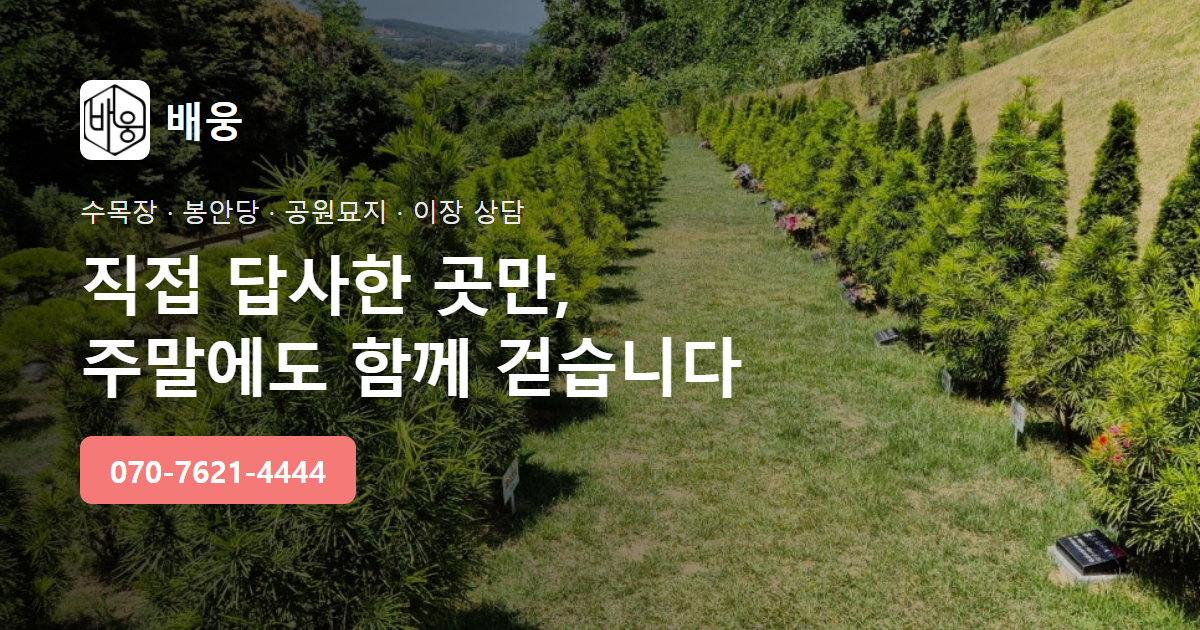
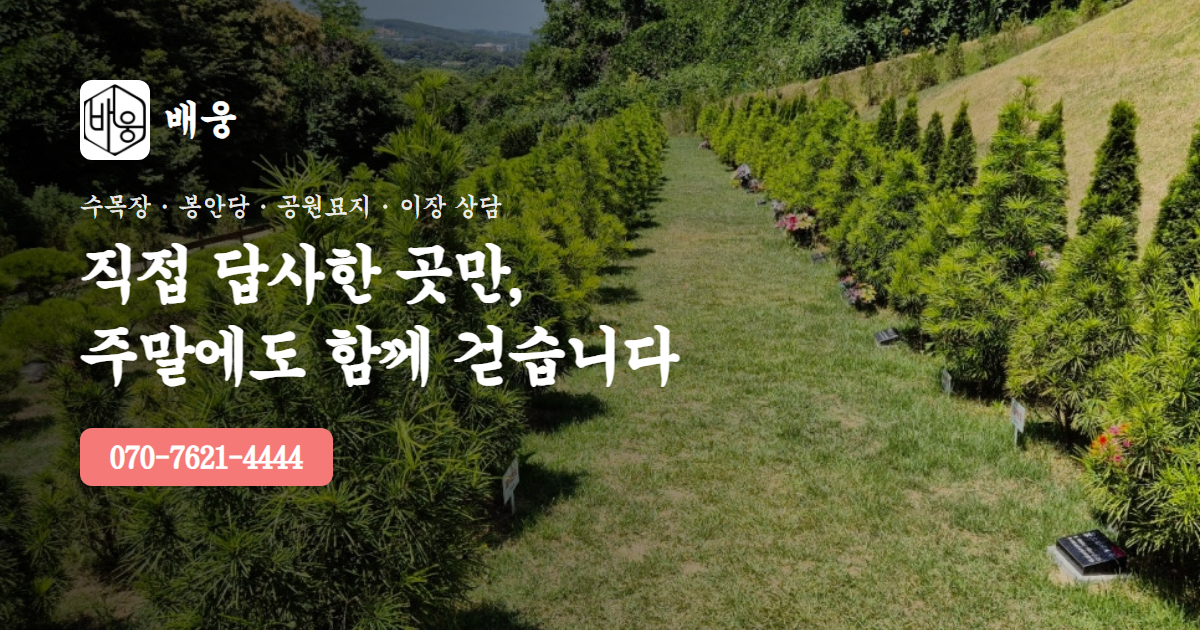
글꼴을 궁서체(조선궁서체 웹폰트)로 변경

diff --git a/css/style.css b/css/style.css
@@ -1,3 +1,5 @@
+/* 글꼴: 조선궁서체(무료 웹폰트). 없으면 윈도우 궁서체 */
+@font-face { font-family: "ChosunGs"; src: url("https://cdn.jsdelivr.net/gh/projectnoonnu/noonfonts_20-04@1.0/ChosunGs.woff") format("woff"); font-weight: normal; font-style: normal; font-display: swap; }
 /* 배웅 홈페이지 — 흰 바탕 + 연회색 섹션 + 코랄 포인트, 모바일 우선 */
 :root {
   --ink: #111;
@@ -17,8 +19,8 @@
 html { -webkit-text-size-adjust: 100%; scroll-behavior: smooth; }
 body {
   margin: 0; background: #fff; color: var(--ink);
-  font-family: Pretendard, -apple-system, BlinkMacSystemFont, "Apple SD Gothic Neo", "Malgun Gothic", sans-serif;
-  font-size: 16px; line-height: 1.6; word-break: keep-all; letter-spacing: -.2px;
+  font-family: "ChosunGs", "Gungsuh", "궁서", "GungSeo", "궁서체", serif;
+  font-size: 16px; line-height: 1.6; word-break: keep-all; letter-spacing: 0;
   padding-bottom: calc(var(--tabH) + env(safe-area-inset-bottom));
 }
 img { max-width: 100%; display: block; }
@@ -32,7 +34,7 @@ p { margin: 0; }
 /* ---------- 헤더 ---------- */
 .hd { position: sticky; top: 0; z-index: 50; background: #fff; border-bottom: 1px solid var(--line); }
 .hd .wrap { display: flex; align-items: center; height: 60px; gap: 8px; }
-.logo { display: flex; align-items: center; gap: 8px; font-weight: 700; font-size: 21px; letter-spacing: -.5px; }
+.logo { display: flex; align-items: center; gap: 8px; font-weight: 700; font-size: 21px; letter-spacing: 0; }
 .logo img { width: 30px; height: auto; }
 .logo small { font-size: 12px; font-weight: 500; color: var(--ink-3); letter-spacing: 0; }
 .nav { display: none; gap: 2px; margin-left: 28px; }
@@ -75,10 +77,10 @@ p { margin: 0; }
 .sec-gray { background: var(--gray); }
 .sec-title { text-align: center; margin-bottom: 28px; }
 .pill { display: inline-block; font-size: 12px; font-weight: 500; color: var(--ink-2); border: 1px solid var(--line); background: #fff; border-radius: 999px; padding: 3px 12px; margin-bottom: 12px; }
-.sec-title h2 { font-size: 24px; letter-spacing: -.6px; }
+.sec-title h2 { font-size: 24px; letter-spacing: 0; }
 .sec-title p { color: var(--ink-3); font-size: 15px; margin-top: 8px; }
 .sec-left { margin-bottom: 18px; display: flex; align-items: flex-end; justify-content: space-between; gap: 12px; }
-.sec-left h2 { font-size: 22px; letter-spacing: -.5px; display: flex; align-items: center; gap: 8px; }
+.sec-left h2 { font-size: 22px; letter-spacing: 0; display: flex; align-items: center; gap: 8px; }
 .sec-left h2 .cnt { color: var(--ink-3); font-weight: 500; font-size: 18px; }
 .sec-left p { color: var(--ink-3); font-size: 14px; margin-top: 4px; }
 .sec-left .more { font-size: 14px; color: var(--ink-3); white-space: nowrap; }
@@ -91,7 +93,7 @@ p { margin: 0; }
 .hero::before { content: ""; position: absolute; inset: 0; background: linear-gradient(180deg, rgba(0, 0, 0, .15) 30%, rgba(0, 0, 0, .6) 100%); }
 .hero .wrap { position: relative; min-height: 520px; display: flex; flex-direction: column; justify-content: flex-end; padding-bottom: 44px; }
 .hero .eyebrow { font-size: 14px; font-weight: 500; opacity: .92; white-space: pre-line; line-height: 1.5; }
-.hero h1 { font-size: 28px; letter-spacing: -1px; margin-top: 10px; white-space: pre-line; }
+.hero h1 { font-size: 28px; letter-spacing: 0; margin-top: 10px; white-space: pre-line; }
 .hero .btn-row { margin-top: 24px; max-width: 460px; }
 .hero .btn-line { background: rgba(255, 255, 255, .95); border-color: #fff; }
 .hero-badges { display: flex; flex-wrap: wrap; gap: 6px; margin-top: 16px; font-size: 13px; }
@@ -370,3 +372,4 @@ p { margin: 0; }
 .pcard .box em { text-align: right; }
 .fac, .fac .t, .rev, .art { min-width: 0; }
 .fac .t h3 { min-width: 0; }
+input, select, textarea, button { font-family: inherit; }

diff --git a/admin.html b/admin.html
@@ -6,11 +6,11 @@
 <meta name="robots" content="noindex, nofollow">
 <title>관리자</title>
 <link rel="icon" href="img/favicon.svg" type="image/svg+xml">
-<link rel="stylesheet" href="https://cdn.jsdelivr.net/gh/orioncactus/pretendard@v1.3.9/dist/web/variable/pretendardvariable-dynamic-subset.min.css">
 <style>
+@font-face { font-family: "ChosunGs"; src: url("https://cdn.jsdelivr.net/gh/projectnoonnu/noonfonts_20-04@1.0/ChosunGs.woff") format("woff"); font-display: swap; }
 :root { --g: #2f5d50; --gd: #22463c; --gs: #e6eee9; --bg: #f3f1ec; --line: #ddd6ca; --ink: #1f2a26; --ink2: #5a6560; --red: #b3261e; --warm: #a8652e; }
 * { box-sizing: border-box; }
-body { margin: 0; background: var(--bg); color: var(--ink); font-family: Pretendard, -apple-system, "Malgun Gothic", sans-serif; font-size: 16px; line-height: 1.55; word-break: keep-all; }
+body { margin: 0; background: var(--bg); color: var(--ink); font-family: "ChosunGs", "Gungsuh", "궁서", serif; font-size: 16px; line-height: 1.55; word-break: keep-all; }
 button, input, select, textarea { font: inherit; }
 button { cursor: pointer; }
 a { color: var(--g); }

diff --git a/dev/og.html b/dev/og.html
@@ -1,9 +1,9 @@
 <!doctype html>
 <meta charset="utf-8">
-<link rel="stylesheet" href="https://cdn.jsdelivr.net/gh/orioncactus/pretendard@v1.3.9/dist/web/variable/pretendardvariable-dynamic-subset.min.css">
 <style>
+@font-face { font-family: "ChosunGs"; src: url("https://cdn.jsdelivr.net/gh/projectnoonnu/noonfonts_20-04@1.0/ChosunGs.woff") format("woff"); font-display: swap; }
 html,body{margin:0;width:1200px;height:630px;overflow:hidden}
-body{font-family:Pretendard,"Malgun Gothic",sans-serif;background:#333 url('../img/hero.jpg') center/cover;color:#fff;position:relative}
+body{font-family:"ChosunGs","Gungsuh","궁서",serif;background:#333 url('../img/hero.jpg') center/cover;color:#fff;position:relative}
 body::before{content:"";position:absolute;inset:0;background:linear-gradient(90deg,rgba(0,0,0,.72),rgba(0,0,0,.15))}
 .in{position:relative;padding:80px 80px}
 .lg{display:flex;align-items:center;gap:14px;font-size:40px;font-weight:800}

diff --git a/dev/make-pages.js b/dev/make-pages.js
@@ -33,7 +33,6 @@ for (const [file, page, type, title, desc] of pages) {
 <meta name="theme-color" content="#ffffff">
 <link rel="icon" href="img/logo-mark.png" type="image/png">
 <link rel="apple-touch-icon" href="img/logo-mark.png">
-<link rel="stylesheet" href="https://cdn.jsdelivr.net/gh/orioncactus/pretendard@v1.3.9/dist/web/variable/pretendardvariable-dynamic-subset.min.css">
 <link rel="stylesheet" href="css/style.css">
 <script src="js/blog-content.js"></script>
 <script src="js/defaults.js"></script>

diff --git a/contact.html b/contact.html
@@ -13,7 +13,6 @@
 <meta name="theme-color" content="#ffffff">
 <link rel="icon" href="img/logo-mark.png" type="image/png">
 <link rel="apple-touch-icon" href="img/logo-mark.png">
-<link rel="stylesheet" href="https://cdn.jsdelivr.net/gh/orioncactus/pretendard@v1.3.9/dist/web/variable/pretendardvariable-dynamic-subset.min.css">
 <link rel="stylesheet" href="css/style.css">
 <script src="js/blog-content.js"></script>
 <script src="js/defaults.js"></script>

diff --git a/facilities.html b/facilities.html
@@ -13,7 +13,6 @@
 <meta name="theme-color" content="#ffffff">
 <link rel="icon" href="img/logo-mark.png" type="image/png">
 <link rel="apple-touch-icon" href="img/logo-mark.png">
-<link rel="stylesheet" href="https://cdn.jsdelivr.net/gh/orioncactus/pretendard@v1.3.9/dist/web/variable/pretendardvariable-dynamic-subset.min.css">
 <link rel="stylesheet" href="css/style.css">
 <script src="js/blog-content.js"></script>
 <script src="js/defaults.js"></script>

diff --git a/facility.html b/facility.html
@@ -13,7 +13,6 @@
 <meta name="theme-color" content="#ffffff">
 <link rel="icon" href="img/logo-mark.png" type="image/png">
 <link rel="apple-touch-icon" href="img/logo-mark.png">
-<link rel="stylesheet" href="https://cdn.jsdelivr.net/gh/orioncactus/pretendard@v1.3.9/dist/web/variable/pretendardvariable-dynamic-subset.min.css">
 <link rel="stylesheet" href="css/style.css">
 <script src="js/blog-content.js"></script>
 <script src="js/defaults.js"></script>

diff --git a/ijang.html b/ijang.html
@@ -13,7 +13,6 @@
 <meta name="theme-color" content="#ffffff">
 <link rel="icon" href="img/logo-mark.png" type="image/png">
 <link rel="apple-touch-icon" href="img/logo-mark.png">
-<link rel="stylesheet" href="https://cdn.jsdelivr.net/gh/orioncactus/pretendard@v1.3.9/dist/web/variable/pretendardvariable-dynamic-subset.min.css">
 <link rel="stylesheet" href="css/style.css">
 <script src="js/blog-content.js"></script>
 <script src="js/defaults.js"></script>

diff --git a/index.html b/index.html
@@ -13,7 +13,6 @@
 <meta name="theme-color" content="#ffffff">
 <link rel="icon" href="img/logo-mark.png" type="image/png">
 <link rel="apple-touch-icon" href="img/logo-mark.png">
-<link rel="stylesheet" href="https://cdn.jsdelivr.net/gh/orioncactus/pretendard@v1.3.9/dist/web/variable/pretendardvariable-dynamic-subset.min.css">
 <link rel="stylesheet" href="css/style.css">
 <script src="js/blog-content.js"></script>
 <script src="js/defaults.js"></script>

diff --git a/maejang.html b/maejang.html
@@ -13,7 +13,6 @@
 <meta name="theme-color" content="#ffffff">
 <link rel="icon" href="img/logo-mark.png" type="image/png">
 <link rel="apple-touch-icon" href="img/logo-mark.png">
-<link rel="stylesheet" href="https://cdn.jsdelivr.net/gh/orioncactus/pretendard@v1.3.9/dist/web/variable/pretendardvariable-dynamic-subset.min.css">
 <link rel="stylesheet" href="css/style.css">
 <script src="js/blog-content.js"></script>
 <script src="js/defaults.js"></script>

diff --git a/napgoldang.html b/napgoldang.html
@@ -13,7 +13,6 @@
 <meta name="theme-color" content="#ffffff">
 <link rel="icon" href="img/logo-mark.png" type="image/png">
 <link rel="apple-touch-icon" href="img/logo-mark.png">
-<link rel="stylesheet" href="https://cdn.jsdelivr.net/gh/orioncactus/pretendard@v1.3.9/dist/web/variable/pretendardvariable-dynamic-subset.min.css">
 <link rel="stylesheet" href="css/style.css">
 <script src="js/blog-content.js"></script>
 <script src="js/defaults.js"></script>

diff --git a/privacy.html b/privacy.html
@@ -13,7 +13,6 @@
 <meta name="theme-color" content="#ffffff">
 <link rel="icon" href="img/logo-mark.png" type="image/png">
 <link rel="apple-touch-icon" href="img/logo-mark.png">
-<link rel="stylesheet" href="https://cdn.jsdelivr.net/gh/orioncactus/pretendard@v1.3.9/dist/web/variable/pretendardvariable-dynamic-subset.min.css">
 <link rel="stylesheet" href="css/style.css">
 <script src="js/blog-content.js"></script>
 <script src="js/defaults.js"></script>
